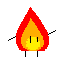
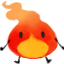
プレイヤーのアニメーション変更（仮）
by長谷川修一

diff --git a/TeamWorkGame/TeamWorkGame/TeamWorkGame/Actor/Player.cs b/TeamWorkGame/TeamWorkGame/TeamWorkGame/Actor/Player.cs
@@ -2,8 +2,8 @@
 // プレーヤーのクラス
 // 作成時間：2016年9月24日
 // By 氷見悠人
-// 最終修正時間：2016年10月13日
-// アニメーションの準備 By 氷見悠人
+// 最終修正時間：2016年11月3日
+// アニメーションの変更 By 長谷川修一
 /////////////////////////////////////////////////
 
 using System;
@@ -67,9 +67,10 @@ namespace TeamWorkGame.Actor
             this.watersList = watersList;
         }
 
+        //当たり判定変更by長谷川修一
         protected override Rectangle InitLocalColRect()
         {
-            return new Rectangle(11, 6, 42, 52);
+            return new Rectangle(8, 22, 49, 42);
         }
 
         /// <summary>
@@ -84,7 +85,7 @@ namespace TeamWorkGame.Actor
             diretion = Direction.RIGHT;
             fireMaxNum = Parameter.FireMaxNum;
             fireNum = fireMaxNum;
-            runAnime = new Animation(Renderer.GetTexture("puddle"), 0.1f, true);
+            runAnime = new Animation(Renderer.GetTexture("playerAnime"), 0.1f, true);
         }
 
         /// <summary>
@@ -117,7 +118,6 @@ namespace TeamWorkGame.Actor
                         fireVelo = new Vector2(1f, -2f);
                         firePos = new Vector2(position.X + ColRect.Width - fire.ColRect.Width / 2, position.Y - fire.ColRect.Height);
                     }
-
 
                     fireVelo.Normalize();
                     fireVelo *= Parameter.FireSpeed;
